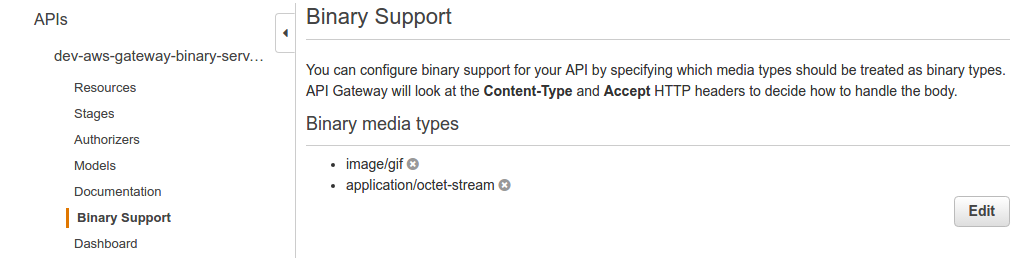
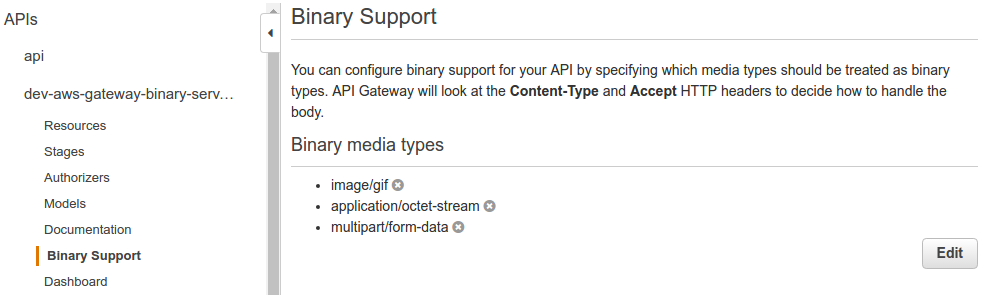
#8: add an example showing how to get the file type and the file name for a form upload using 'multipart/form-data'

diff --git a/aws/gateway/aws-gateway-binary/src/main/java/com/jrestless/aws/examples/ApiResource.java b/aws/gateway/aws-gateway-binary/src/main/java/com/jrestless/aws/examples/ApiResource.java
@@ -7,6 +7,7 @@ import java.io.InputStream;
 import java.io.OutputStream;
 import java.net.HttpURLConnection;
 import java.net.URL;
+import java.nio.charset.StandardCharsets;
 import java.nio.file.Files;
 import java.nio.file.StandardCopyOption;
 
@@ -21,6 +22,8 @@ import javax.ws.rs.core.MediaType;
 import javax.ws.rs.core.Response.Status;
 import javax.ws.rs.core.StreamingOutput;
 
+import org.glassfish.jersey.media.multipart.FormDataBodyPart;
+import org.glassfish.jersey.media.multipart.FormDataParam;
 import org.slf4j.Logger;
 import org.slf4j.LoggerFactory;
 
@@ -32,9 +35,9 @@ import org.slf4j.LoggerFactory;
  *
  */
 @Path("/api")
-public class SampleResource {
+public class ApiResource {
 
-	private static final Logger LOG = LoggerFactory.getLogger(SampleResource.class);
+	private static final Logger LOG = LoggerFactory.getLogger(ApiResource.class);
 	private static final int BUFFER_LENGTH = 1024;
 	private static final int NR_RETRIES  = 3;
 
@@ -117,6 +120,17 @@ public class SampleResource {
 	@Produces(MediaType.APPLICATION_OCTET_STREAM)
 	public byte[] postAndGetBinary(byte[] data) {
 		return data;
+	}
+
+	@POST
+	@Path("/upload")
+	@Consumes(MediaType.MULTIPART_FORM_DATA)
+	public void uploadFile(
+			@FormDataParam("file") InputStream uploadedInputStream,
+			@FormDataParam("file") FormDataBodyPart body) {
+		LOG.info("file name: {}", body.getContentDisposition().getFileName());
+		LOG.info("file type: {}", body.getMediaType());
+		LOG.info("file contents: {}", new String(toByteArray(uploadedInputStream), StandardCharsets.UTF_8));
 	}
 
 	public static byte[] toByteArray(InputStream is) {

diff --git a/aws/gateway/aws-gateway-binary/src/main/java/com/jrestless/aws/examples/UiResource.java b/aws/gateway/aws-gateway-binary/src/main/java/com/jrestless/aws/examples/UiResource.java
@@ -1,0 +1,34 @@
+package com.jrestless.aws.examples;
+
+import javax.ws.rs.GET;
+import javax.ws.rs.Path;
+import javax.ws.rs.Produces;
+import javax.ws.rs.core.Context;
+import javax.ws.rs.core.MediaType;
+
+import com.jrestless.aws.gateway.io.GatewayRequest;
+
+@Path("/ui")
+public class UiResource {
+
+	private static final String UPLOAD_UI = ""
+			+ "<!DOCTYPE html>"
+			+ "<html>%n"
+			+ "<body>%n"
+			+ "<form action=\"%s\" method=\"post\" enctype=\"multipart/form-data\">%n"
+			+ "<p>%n"
+			+ "Select a file : <input type=\"file\" name=\"file\" />%n"
+			+ "</p>%n"
+			+ "<input type=\"submit\" value=\"Upload It\" />%n"
+			+ "</form>%n"
+			+ "</body>%n"
+			+ "</html>%n";
+
+
+	@GET
+	@Path("/upload")
+	@Produces(MediaType.TEXT_HTML)
+	public String getUploadUi(@Context GatewayRequest request) {
+		return String.format(UPLOAD_UI, "/" + request.getRequestContext().getStage() + "/api/upload");
+	}
+}

diff --git a/aws/gateway/aws-gateway-binary/src/main/java/com/jrestless/aws/examples/RequestHandler.java b/aws/gateway/aws-gateway-binary/src/main/java/com/jrestless/aws/examples/RequestHandler.java
@@ -1,5 +1,6 @@
 package com.jrestless.aws.examples;
 
+import org.glassfish.jersey.media.multipart.MultiPartFeature;
 import org.glassfish.jersey.server.ResourceConfig;
 import org.slf4j.Logger;
 import org.slf4j.LoggerFactory;
@@ -26,7 +27,10 @@ public class RequestHandler extends GatewayRequestObjectHandler {
 		SLF4JBridgeHandler.removeHandlersForRootLogger();
 		SLF4JBridgeHandler.install();
 		// configure the application with the resource
-		init(new ResourceConfig().register(GatewayFeature.class).packages("com.jrestless.aws.examples"));
+		init(new ResourceConfig()
+				.register(GatewayFeature.class)
+				.register(MultiPartFeature.class)
+				.packages("com.jrestless.aws.examples"));
 		start();
 	}
 

diff --git a/aws/gateway/aws-gateway-binary/README.md b/aws/gateway/aws-gateway-binary/README.md
@@ -15,7 +15,7 @@ serverless logs -f "api" -t # if you want to tail the logs
 
 Since it's not yet possible in `serverless` or rather `CloudFormation` to set binary media types, they must be set manually.
 
-Open the AWS console, go to the API Gateway page, add the binary media types `image/gif ` and `application/octet-stream`, and save.
+Open the AWS console, go to the API Gateway page, add the binary media types `image/gif`, `application/octet-stream` and `multipart/form-data`, and save.
 
 ![](binary_media_types.png)
 
@@ -35,6 +35,12 @@ curl -v --header "Accept: image/gif" .../dev/api/cat-file > cat.gif
 curl -v --header "Accept: application/octet-stream" --header "Content-Type: application/octet-stream" --request POST --data-binary "@cat.gif" .../dev/api/binary > cat_from_server.gif
 ```
 
+`.../ui/upload` can be opened in a browser to upload a file via a form to `.../api/upload`.
+
+![](upload_form.png)
+
+![](upload_log.png)
+
 ## Endpoints
 
 |Endpoints                   |Method|Consumes                |Produces                 | Status Code    | Comment
@@ -45,3 +51,5 @@ curl -v --header "Accept: application/octet-stream" --header "Content-Type: appl
 |api/cat-data-source         |GET   |-                       |image/gif                |200             | endpoint's response type is a DataSource
 |api/cat-file                |GET   |-                       |image/gif                |200             | endpoint's response type is a File
 |api/binary                  |POST  |application/octet-stream|application/octet-stream |200             | responds with the posted data
+|ui/upload                   |GET   |                        |text/html                |200             | simple form to upload a file to api/upload
+|api/upload                  |POST  |multipart/form-data     |                         |204             | processes an uploaded file and logs the file name and contents
